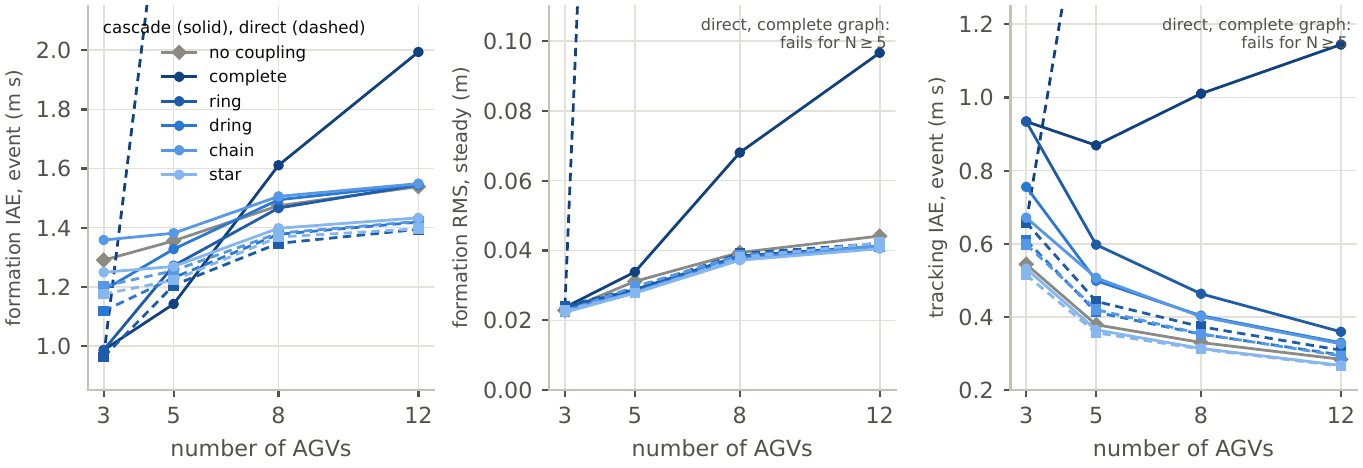
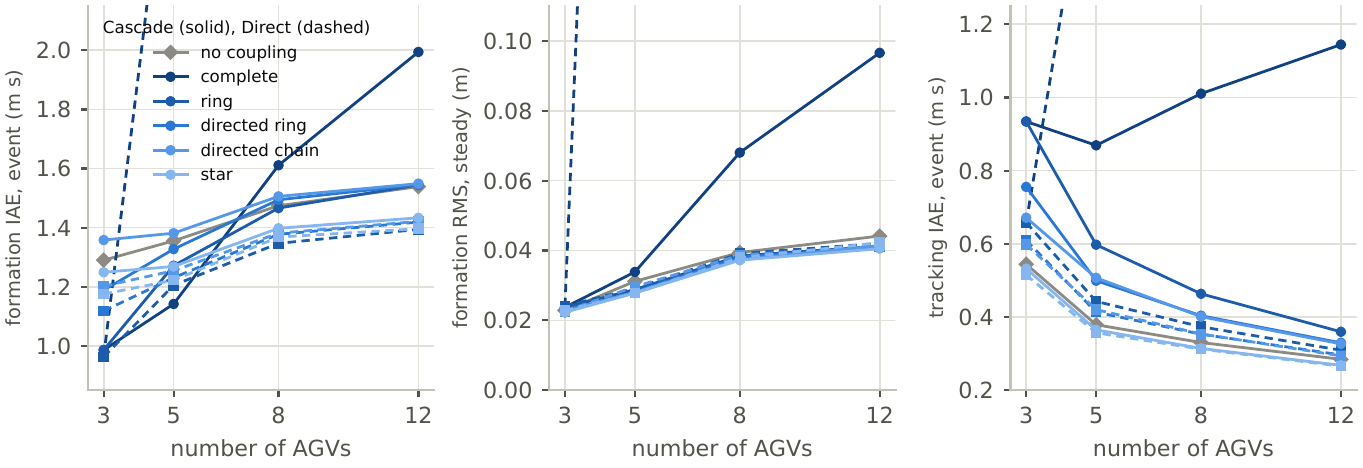
AGV project page and homepage entry synced with the revised report
New title, sigma-leak filter instead of 'CEP-structure transfer', lambda_2(L)
notation, corrected claims (21-32 % after traction losses, 0.63 % step-size
bound, failures instead of 'unstable', direct-coupling failures at N = 5),
independent review instead of 'audit', figures regenerated.

diff --git a/agv-formation/index.html b/agv-formation/index.html
@@ -3,11 +3,11 @@
 <head>
 <meta charset="utf-8">
 <meta name="viewport" content="width=device-width, initial-scale=1, viewport-fit=cover">
-<title>Delay-Tolerant Formation Tracking for Multi-AGV Systems</title>
-<meta name="description" content="A cascade coupling law for AGV formations whose stability does not depend on the communication delay: audited Lyapunov proofs and 4,894 runs on a high-fidelity AGV simulator, with an interactive replay.">
+<title>Delay-Tolerant Formation Tracking for Multi-AGV Systems via Reference-Shift Coupling</title>
+<meta name="description" content="A cascade coupling law for AGV formations whose stability does not depend on the communication delay: Lyapunov proofs, a numerical verification and 4,894 runs on a high-fidelity AGV simulator, with an interactive replay.">
 <meta property="og:type" content="website">
-<meta property="og:title" content="Delay-Tolerant Formation Tracking for Multi-AGV Systems">
-<meta property="og:description" content="Reference-shift coupling for AGV formations under arbitrary bounded communication delays: audited stability proofs and a high-fidelity simulation study.">
+<meta property="og:title" content="Delay-Tolerant Formation Tracking for Multi-AGV Systems via Reference-Shift Coupling">
+<meta property="og:description" content="Reference-shift coupling for AGV formations under arbitrary bounded communication delays: stability proofs and a high-fidelity simulation study.">
 <meta property="og:image" content="https://bi-yunfei.github.io/agv-formation/media/og.jpg">
 <link rel="preconnect" href="https://fonts.googleapis.com">
 <link rel="preconnect" href="https://fonts.gstatic.com" crossorigin>
@@ -278,8 +278,8 @@ footer a { color: var(--ink-2); }
 <main class="wrap">
   <div class="hero">
     <p class="kicker"><span data-l="en">Technical report · 2026</span><span data-l="zh">技术报告 · 2026</span></p>
-    <h1><span data-l="en">Delay-Tolerant Formation Tracking for Multi-AGV Systems</span><span data-l="zh">通信时延下的多 AGV 编队跟踪控制</span></h1>
-    <p class="subtitle"><span data-l="en">A cascade coupling law whose stability does not depend on the communication delay, audited Lyapunov proofs, and 4,894 runs on a high-fidelity AGV simulator.</span><span data-l="zh">稳定性与通信时延无关的级联耦合控制律、经过审计的李雅普诺夫稳定性证明，以及在高保真 AGV 仿真器上的 4894 次仿真验证。</span></p>
+    <h1><span data-l="en">Delay-Tolerant Formation Tracking for Multi-AGV Systems via Reference-Shift Coupling</span><span data-l="zh">通信时延下的多 AGV 编队跟踪控制：参考轨迹平移耦合方法</span></h1>
+    <p class="subtitle"><span data-l="en">A cascade coupling law whose stability does not depend on the communication delay, Lyapunov stability proofs that were checked numerically, and 4,894 runs on a high-fidelity AGV simulator.</span><span data-l="zh">稳定性与通信时延无关的级联耦合控制律、经过数值核验的李雅普诺夫稳定性证明，以及在高保真 AGV 仿真器上的 4894 次仿真验证。</span></p>
     <p class="author"><a href="../"><span data-l="en">Yunfei Bi</span><span data-l="zh">毕云飞</span></a></p>
     <div class="buttons">
       <a class="btn" href="#replay"><svg viewBox="0 0 16 16" aria-hidden="true"><path d="M5 3.5v9l7-4.5z"/></svg><span data-l="en">Interactive replay</span><span data-l="zh">交互式动画</span></a>
@@ -320,10 +320,10 @@ footer a { color: var(--ink-2); }
   <section id="numbers" aria-labelledby="h-numbers">
     <h2 class="sec-title" id="h-numbers"><span data-l="en">Results at a glance</span><span data-l="zh">主要结果</span></h2>
     <div class="cards">
-      <div class="card"><p class="num">4,894</p><p><span data-l="en">paired runs on the high-fidelity model, with baselines tuned on separate seeds.</span><span data-l="zh">次高保真模型上的配对仿真，对照控制器在独立的随机种子上调参。</span></p></div>
-      <div class="card"><p class="num blue">0</p><p><span data-l="en">failures of the cascade, for latencies up to 4 s, 90 % packet loss, outages, 12 vehicles and 8× the tuned gain.</span><span data-l="zh">次级联控制器失稳：时延最长 4 s、丢包率 90 %、通信中断、12 辆车、8 倍调参增益下均保持稳定。</span></p></div>
+      <div class="card"><p class="num">4,894</p><p><span data-l="en">simulation runs on the high-fidelity model, including paired comparisons with baselines tuned on separate seeds.</span><span data-l="zh">次高保真模型上的仿真，包括与对照控制器的配对比较，对照控制器在独立的随机种子上调参。</span></p></div>
+      <div class="card"><p class="num blue">0</p><p><span data-l="en">failures of the cascade, for latencies up to 4 s, 90 % packet loss, outages, 12 vehicles and 8× the tuned gain.</span><span data-l="zh">次级联控制器失败：时延最长 4 s、丢包率 90 %、通信中断、12 辆车、8 倍调参增益下均未失败。</span></p></div>
       <div class="card"><p class="num blue">−47 %</p><p><span data-l="en">formation error (IAE) after a 3-s safety stop of one AGV, cascade vs. no coupling (R6).</span><span data-l="zh">单车急停 3 s 后的编队误差积分（IAE），级联耦合相对无耦合（R6）。</span></p></div>
-      <div class="card"><p class="num blue">−22…32 %</p><p><span data-l="en">formation error (IAE) after a traction loss, coupled laws vs. no coupling (R2, two routes).</span><span data-l="zh">打滑后的编队误差积分，耦合控制律相对无耦合（R2，两条路线）。</span></p></div>
+      <div class="card"><p class="num blue">−21…32 %</p><p><span data-l="en">formation error (IAE) after a traction loss, coupled laws vs. no coupling (R2 and R6).</span><span data-l="zh">打滑后的编队误差积分，耦合控制律相对无耦合（R2 与 R6）。</span></p></div>
     </div>
     <p class="prose"><span data-l="en">The coupling is not free: while the others wait for a disturbed vehicle they fall behind their own references, so the tracking error grows (by 24 % in the median for the cascade). In nominal operation the formation accuracy, about 3 cm RMS, is set by the localisation error, which no coupling law can observe.</span><span data-l="zh">耦合并非没有代价：其他车辆等待受扰车辆时会落后于各自的参考轨迹，跟踪误差因此增大（级联耦合的中位数增加 24 %）。正常运行时编队精度约为 3 cm RMS，由定位误差决定，任何耦合控制律都无法观测并消除它。</span></p>
   </section>
@@ -369,12 +369,12 @@ footer a { color: var(--ink-2); }
     <h2 class="sec-title" id="h-theory"><span data-l="en">What is proven</span><span data-l="zh">理论结果</span></h2>
     <p class="sec-sub"><span data-l="en">For kinematic unicycles, every bounded delay (heterogeneous, time-varying, discontinuous) and every directed, possibly switching communication graph.</span><span data-l="zh">适用于运动学独轮车模型、任意有界时延（各链路不同、时变、可跳变）以及任意有向、可切换的通信拓扑。</span></p>
     <div class="thm">
-      <div><p class="tl"><span data-l="en">Theorem · convergence</span><span data-l="zh">定理 · 收敛性</span></p><h3><span data-l="en">Bounded and convergent for any bounded delay</span><span data-l="zh">任意有界时延下误差有界且收敛</span></h3><p><span data-l="en">Tracking and formation errors stay bounded and converge to zero. Boundedness needs no assumption on the delays at all (Razumikhin and max-norm arguments).</span><span data-l="zh">跟踪误差与编队误差有界并收敛到零；有界性对时延没有任何假设（Razumikhin 方法与最大范数论证）。</span></p></div>
+      <div><p class="tl"><span data-l="en">Theorem · convergence</span><span data-l="zh">定理 · 收敛性</span></p><h3><span data-l="en">Bounded and convergent for any bounded delay</span><span data-l="zh">任意有界时延下误差有界且收敛</span></h3><p><span data-l="en">Tracking and formation errors stay bounded and converge to zero. Boundedness holds without any bound on the delays (Razumikhin and max-norm arguments).</span><span data-l="zh">跟踪误差与编队误差有界并收敛到零；有界性对时延的大小没有任何限制（Razumikhin 方法与最大范数论证）。</span></p></div>
       <div><p class="tl"><span data-l="en">Proposition · strict Lyapunov function</span><span data-l="zh">命题 · 严格李雅普诺夫函数</span></p><h3><span data-l="en">Explicit constants for the tracking law</span><span data-l="zh">跟踪律的显式常数</span></h3><p><span data-l="en">A strict Lyapunov function for the gain-scheduled law, written with a free length scale so that all constants are dimensionally consistent.</span><span data-l="zh">为增益调度跟踪律构造严格李雅普诺夫函数，并引入自由长度尺度，使所有常数量纲一致。</span></p></div>
       <div><p class="tl"><span data-l="en">Lemma + theorems · rates</span><span data-l="zh">引理与定理 · 收敛速率</span></p><h3><span data-l="en">Exponential convergence, delay-independent gains</span><span data-l="zh">指数收敛，增益与时延无关</span></h3><p><span data-l="en">A Halanay-type estimate for the delayed filter network gives exponential convergence and a local input-to-state estimate whose gains do not depend on the delay.</span><span data-l="zh">对带时延的滤波器网络给出 Halanay 型估计，由此得到指数收敛，以及增益与时延无关的局部输入-状态稳定（ISS）估计。</span></p></div>
-      <div class="new"><p class="tl"><span data-l="en">Proposition · new</span><span data-l="zh">命题 · 新结果</span></p><h3><span data-l="en">What the coupling buys</span><span data-l="zh">耦合到底带来多少收益</span></h3><p><span data-l="en">Persistent local errors reach the tracking errors through</span><span data-l="zh">持续存在的本地误差按下式传递到跟踪误差：</span></p><div class="tex" data-tex="e^{\infty} = \lambda\,(\lambda I + \Lambda L)^{-1}\,\varepsilon^{\infty}"></div><p><span data-l="en">Their mean is untouched; the formation error shrinks by the factor λ/(λ + Λℓ₂), for any delay (ℓ₂: algebraic connectivity of the graph).</span><span data-l="zh">误差的均值不变，编队误差按因子 λ/(λ + Λℓ₂) 缩小，且对任意时延成立（ℓ₂ 为通信图的代数连通度）。</span></p></div>
+      <div class="new"><p class="tl"><span data-l="en">Proposition · new</span><span data-l="zh">命题 · 新结果</span></p><h3><span data-l="en">Benefit of the coupling</span><span data-l="zh">耦合带来的收益</span></h3><p><span data-l="en">Persistent local errors reach the tracking errors through</span><span data-l="zh">持续存在的本地误差按下式传递到跟踪误差：</span></p><div class="tex" data-tex="e^{\infty} = \lambda\,(\lambda I + \Lambda L)^{-1}\,\varepsilon^{\infty}"></div><p><span data-l="en">On undirected graphs their mean is untouched, and the formation error shrinks by at least the factor λ/(λ + Λλ₂(L)), for any delay (λ₂(L): algebraic connectivity of the graph).</span><span data-l="zh">在无向图上，误差的均值不变，编队误差至少按因子 λ/(λ + Λλ₂(L)) 缩小，且对任意时延成立（λ₂(L) 为通信图的代数连通度）。</span></p></div>
     </div>
-    <div class="audit"><svg viewBox="0 0 24 24" aria-hidden="true"><path d="M12 2.8 4.5 5.6v6.1c0 4.4 3.1 8.1 7.5 9.5 4.4-1.4 7.5-5.1 7.5-9.5V5.6z M8.6 12.2l2.4 2.4 4.6-4.8"/></svg><p><span data-l="en"><b>Audited and checked numerically.</b> The proofs were reviewed as a referee would: no mathematical error was found; gaps (well-posedness, dimensional consistency, an over-claimed uniform asymptotic stability, constants) were fixed. Every statement was then checked with an event-driven, error-controlled simulation: 2×10⁷ random evaluations of the Lyapunov inequalities, 1,000 exactly integrated delayed networks and 280 closed-loop runs with delays up to 4.2 s and 13 % packet loss produced no violation.</span><span data-l="zh"><b>经过审计和数值核验。</b>以审稿人的标准逐条审查了证明：未发现数学错误，并补全了若干缺口（解的适定性、量纲一致性、过强的一致渐近稳定结论、常数）。随后用事件驱动、误差可控的仿真逐条核验：2×10⁷ 次李雅普诺夫不等式随机检验、1000 个精确积分的时延网络、280 次时延最长 4.2 s 且丢包 13 % 的闭环仿真，均未出现违反。</span></p></div>
+    <div class="audit"><svg viewBox="0 0 24 24" aria-hidden="true"><path d="M12 2.8 4.5 5.6v6.1c0 4.4 3.1 8.1 7.5 9.5 4.4-1.4 7.5-5.1 7.5-9.5V5.6z M8.6 12.2l2.4 2.4 4.6-4.8"/></svg><p><span data-l="en"><b>Independently reviewed and checked numerically.</b> Two referee-style passes over the proofs found no error in the theorems; missing hypotheses, one incorrect remark and notation issues were fixed, and the proof of the direct-coupling delay bound was added. Every number in the report was re-checked against the stored results, and every reference against publisher records. Every statement was also checked with an event-driven, error-controlled simulation: 2×10⁷ random evaluations of the Lyapunov inequalities, 1,000 exactly integrated delayed networks and 280 closed-loop runs with delays up to 4.2 s and 13 % packet loss produced no violation.</span><span data-l="zh"><b>经过独立审查和数值核验。</b>以审稿人的标准对证明做了两轮独立审查：定理本身未发现错误；补全了缺失的前提条件，修正了一处错误的注释和符号问题，并补充了直接耦合时延界的证明。报告中的每个数字都与保存的仿真结果重新核对过，每条参考文献都与出版方记录核实过。此外还用事件驱动、误差可控的仿真逐条核验：2×10⁷ 次李雅普诺夫不等式随机检验、1000 个精确积分的时延网络、280 次时延最长 4.2 s 且丢包 13 % 的闭环仿真，均未出现违反。</span></p></div>
   </section>
 
   <!-- ===================================================== study -->
@@ -388,7 +388,7 @@ footer a { color: var(--ink-2); }
       <div class="layer"><b><span data-l="en">Localisation</span><span data-l="zh">定位</span></b><ul><li><span data-l="en">LiDAR fixes at 20 Hz, 50 ms latency</span><span data-l="zh">激光雷达定位 20 Hz，延迟 50 ms</span></li><li><span data-l="en">noise 10 mm, slowly drifting bias</span><span data-l="zh">噪声 10 mm，缓慢漂移的偏差</span></li><li><span data-l="en">fused with wheel odometry</span><span data-l="zh">与轮式里程计融合</span></li></ul></div>
       <div class="layer"><b><span data-l="en">Network</span><span data-l="zh">网络</span></b><ul><li><span data-l="en">20 Hz broadcasts, 30 ± 15 ms + spikes</span><span data-l="zh">20 Hz 广播，30 ± 15 ms 时延并有尖峰</span></li><li><span data-l="en">burst loss (Gilbert–Elliott), outages</span><span data-l="zh">突发丢包（Gilbert–Elliott）、通信中断</span></li><li><span data-l="en">link switching</span><span data-l="zh">链路切换</span></li></ul></div>
     </div>
-    <p class="fair"><span data-l="en"><b>Fair comparison.</b> Four laws share the same tracking law: <b>no coupling</b>; the <b>cascade</b>; a <b>CEP-structure transfer</b> (the filter of Peng et al. transferred literally); and <b>direct coupling</b>, where delayed neighbour errors enter the tracking law. Each coupling gain was tuned on ten seeds never used for testing. Every comparison is paired (a seed fixes initial errors, vehicle parameters, network, noise and slip for all controllers), reported as mean or median with 95 % bootstrap intervals, and tested with Wilcoxon signed-rank tests with Holm correction.</span><span data-l="zh"><b>公平对比。</b>四种控制律使用同一个跟踪律：<b>无耦合</b>；<b>级联耦合</b>（本文）；<b>CEP 结构移植</b>（将 Peng 等人的滤波器原样移植）；以及<b>直接耦合</b>（把带时延的邻居误差直接加入跟踪律）。每个耦合增益都在十个从不用于测试的种子上调参。所有比较都是配对的（同一种子下所有控制器的初始误差、车辆参数、网络、噪声和打滑完全相同），结果给出均值或中位数及 95 % bootstrap 置信区间，并用带 Holm 校正的 Wilcoxon 符号秩检验做显著性检验。</span></p>
+    <p class="fair"><span data-l="en"><b>Fair comparison.</b> Four laws share the same tracking law: <b>no coupling</b>; the <b>cascade</b>; the <b>σ-leak filter</b> (the reference-filter structure of Peng et al. transferred literally to unicycles; not their controller); and <b>direct coupling</b>, where delayed neighbour errors enter the tracking law. Each coupling gain was tuned on ten seeds never used for testing. Every comparison is paired (a seed fixes initial errors, vehicle parameters, network, noise and slip for all controllers), reported as mean or median with 95 % bootstrap intervals, and tested with Wilcoxon signed-rank tests with Holm correction.</span><span data-l="zh"><b>公平对比。</b>四种控制律使用同一个跟踪律：<b>无耦合</b>；<b>级联耦合</b>（本文）；<b>σ-leak 滤波器</b>（把 Peng 等人参考滤波器的结构原样移植到独轮车模型，并非他们的控制器）；以及<b>直接耦合</b>（把带时延的邻居误差直接加入跟踪律）。每个耦合增益都在十个从不用于测试的种子上调参。所有比较都是配对的（同一种子下所有控制器的初始误差、车辆参数、网络、噪声和打滑完全相同），结果给出均值或中位数及 95 % bootstrap 置信区间，并用带 Holm 校正的 Wilcoxon 符号秩检验做显著性检验。</span></p>
     <div class="tbl-wrap">
     <table class="exps">
       <thead><tr><th><span data-l="en">Exp.</span><span data-l="zh">实验</span></th><th><span data-l="en">Question</span><span data-l="zh">内容</span></th></tr></thead>
@@ -414,7 +414,7 @@ footer a { color: var(--ink-2); }
       </div>
       <div class="smalls" id="events"></div>
       <div class="legend" id="events-legend"></div>
-      <p class="caption"><span data-l="en">Warehouse route, 20 seeds, mean with 95 % bootstrap interval, over 15 s from the onset. Coupling lowers the formation error after traction losses and safety stops; the price is a larger tracking error, because the other vehicles wait. A relocalisation jump is a localisation artefact that no coupling law can see. The literal transfer of the reference study's filter (CEP-structure) is worse than no coupling after traction losses on this route and in some runs does not settle below 10 cm within the window.</span><span data-l="zh">仓库路线，20 个种子，均值及 95 % bootstrap 置信区间，统计窗口为扰动发生后 15 s。耦合降低了打滑和急停后的编队误差，代价是跟踪误差变大，因为其他车辆在等待。重定位跳变是定位层面的误差，任何耦合控制律都无法察觉。原样移植的参考文献滤波器（CEP 结构）在这条路线上打滑后反而比无耦合更差，且部分仿真在统计窗口内无法回落到 10 cm 以下。</span></p>
+      <p class="caption"><span data-l="en">Warehouse route, 20 seeds, mean with 95 % bootstrap interval, over 15 s from the onset. Coupling lowers the formation error after traction losses and safety stops; the price is a larger tracking error, because the other vehicles wait. A relocalisation jump is a localisation artefact that no coupling law can see. The σ-leak filter is worse than no coupling after traction losses on this route, and in some runs it does not recover before the end of the run.</span><span data-l="zh">仓库路线，20 个种子，均值及 95 % bootstrap 置信区间，统计窗口为扰动发生后 15 s。耦合降低了打滑和急停后的编队误差，代价是跟踪误差变大，因为其他车辆在等待。重定位跳变是定位层面的误差，任何耦合控制律都无法察觉。σ-leak 滤波器在这条路线上打滑后反而比无耦合更差，部分仿真到结束时仍未恢复。</span></p>
       <details class="table"><summary><span data-l="en">Show as table</span><span data-l="zh">以表格显示</span></summary><div class="tbl-wrap" id="events-table"></div></details>
     </div>
 
@@ -434,9 +434,9 @@ footer a { color: var(--ink-2); }
         <figure><a class="img" href="figures/r3_network.png" target="_blank" rel="noopener"><img src="figures/r3_network.png" alt="Formation IAE under six network sweeps" loading="lazy" width="1366" height="828"></a><figcaption><b>R3.</b> <span data-l="en">Network sweeps: latency, loss, outages without and with watchdog, broadcast rate and the sinusoidal delays of the reference study.</span><span data-l="zh">网络扫描：时延、丢包、通信中断（有无看门狗）、广播频率，以及参考文献中的正弦时延。</span></figcaption></figure>
         <figure><a class="img" href="figures/r4_simreal_steady.png" target="_blank" rel="noopener"><img src="figures/r4_simreal_steady.png" alt="Steady formation RMS against eleven sim-to-real factors" loading="lazy" width="1372" height="1087"></a><figcaption><b>R4.</b> <span data-l="en">Sim-to-real factors one at a time: steady formation RMS. Localisation bias and clock offset dominate; the controllers cannot remove them.</span><span data-l="zh">逐一改变 sim-to-real 因素时的稳态编队 RMS。定位偏差和时钟偏差占主导，控制律无法消除。</span></figcaption></figure>
         <figure><a class="img" href="figures/r5_domain_rand.png" target="_blank" rel="noopener"><img src="figures/r5_domain_rand.png" alt="Distributions of IAE ratios over 150 randomised draws" loading="lazy" width="1366" height="439"></a><figcaption><b>R5.</b> <span data-l="en">Domain randomisation over 150 draws: paired formation and tracking IAE ratios to no coupling, and peak formation error.</span><span data-l="zh">150 组域随机化：编队与跟踪误差积分相对无耦合的配对比值分布，以及编队误差峰值。</span></figcaption></figure>
-        <figure><a class="img" href="figures/r7_scaling.png" target="_blank" rel="noopener"><img src="figures/r7_scaling.png" alt="Formation IAE for 3 to 12 vehicles on five graphs" loading="lazy" width="1363" height="468"></a><figcaption><b>R7.</b> <span data-l="en">3 to 12 vehicles on five graphs (unit weights). The direct coupling fails on the complete graph from 8 vehicles on; degree-normalised weights fix this (R7b).</span><span data-l="zh">3 到 12 辆车、五种拓扑（单位权重）。完全图下直接耦合从 8 辆车起失稳；按度归一化权重可解决（R7b）。</span></figcaption></figure>
-        <figure><a class="img" href="figures/r8_sensitivity.png" target="_blank" rel="noopener"><img src="figures/r8_sensitivity.png" alt="Sensitivity of the cascade to its parameters" loading="lazy" width="1364" height="363"></a><figcaption><b>R8.</b> <span data-l="en">Cascade parameters varied one at a time: performance degrades smoothly; a larger leak λ lowers the tracking cost, a cap ē of 0.1–0.2 m works better than the default.</span><span data-l="zh">逐一改变级联参数：性能平滑变化；增大泄漏项 λ 可降低跟踪代价，ē 取 0.1–0.2 m 优于默认值。</span></figcaption></figure>
-        <figure><a class="img" href="figures/form.png" target="_blank" rel="noopener"><img src="figures/form.png" alt="Measured formation-error ratio against the predicted factor" loading="lazy" width="1365" height="472"></a><figcaption><b><span data-l="en">Theory check.</span><span data-l="zh">理论核验。</span></b> <span data-l="en">Measured ratio of the steady formation error with and without coupling against the predicted factor λ/(λ + Λℓ₂): equality on the complete graph.</span><span data-l="zh">有无耦合时稳态编队误差之比的实测值与预测因子 λ/(λ + Λℓ₂) 的对比：完全图下两者相等。</span></figcaption></figure>
+        <figure><a class="img" href="figures/r7_scaling.png" target="_blank" rel="noopener"><img src="figures/r7_scaling.png" alt="Formation IAE for 3 to 12 vehicles on five graphs" loading="lazy" width="1363" height="468"></a><figcaption><b>R7.</b> <span data-l="en">3 to 12 vehicles on five graphs (unit weights). On the complete graph the direct coupling fails in 1 of 6 runs for N = 5 and in all runs from N = 8; degree-normalised weights fix this (R7b).</span><span data-l="zh">3 到 12 辆车、五种拓扑（单位权重）。完全图下直接耦合在 N = 5 时 6 次中失败 1 次，N ≥ 8 时全部失败；按度归一化权重可解决（R7b）。</span></figcaption></figure>
+        <figure><a class="img" href="figures/r8_sensitivity.png" target="_blank" rel="noopener"><img src="figures/r8_sensitivity.png" alt="Sensitivity of the cascade to its parameters" loading="lazy" width="1364" height="357"></a><figcaption><b>R8.</b> <span data-l="en">Cascade parameters varied one at a time: performance changes gradually; a larger leak λ lowers the tracking cost, a cap ē of 0.1–0.2 m works better than the default.</span><span data-l="zh">逐一改变级联参数：性能变化平缓；增大泄漏项 λ 可降低跟踪代价，ē 取 0.1–0.2 m 优于默认值。</span></figcaption></figure>
+        <figure><a class="img" href="figures/form.png" target="_blank" rel="noopener"><img src="figures/form.png" alt="Measured formation-error ratio against the predicted factor" loading="lazy" width="1365" height="472"></a><figcaption><b><span data-l="en">Theory check.</span><span data-l="zh">理论核验。</span></b> <span data-l="en">Measured ratio of the steady formation error with and without coupling against the predicted factor λ/(λ + Λλ₂(L)): equality on the complete graph.</span><span data-l="zh">有无耦合时稳态编队误差之比的实测值与预测因子 λ/(λ + Λλ₂(L)) 的对比：完全图下两者相等。</span></figcaption></figure>
       </div>
     </div>
   </section>
@@ -445,18 +445,18 @@ footer a { color: var(--ink-2); }
   <section id="lessons" aria-labelledby="h-lessons">
     <h2 class="sec-title" id="h-lessons"><span data-l="en">Takeaways</span><span data-l="zh">结论与部署建议</span></h2>
     <ul class="learn">
-      <li><svg viewBox="0 0 24 24" aria-hidden="true"><path d="M12 2.8 4.5 5.6v6.1c0 4.4 3.1 8.1 7.5 9.5 4.4-1.4 7.5-5.1 7.5-9.5V5.6z"/></svg><p><span data-l="en"><b>Stability.</b> The cascade did not fail in any run. The direct coupling failed whenever its effective gain pushed the drives into saturation, and at high localisation noise; the literal transfer of the reference filter failed in 13 % of the randomised draws.</span><span data-l="zh"><b>稳定性。</b>级联耦合在所有仿真中都没有失稳。直接耦合在有效增益把驱动推入饱和时、以及定位噪声较大时会失稳；原样移植的参考滤波器在 13 % 的域随机化样本中失稳。</span></p></li>
-      <li><svg viewBox="0 0 24 24" aria-hidden="true"><path d="M4 18 9.5 12l4 3.5L20 7 M15 7h5v5"/></svg><p><span data-l="en"><b>Benefit.</b> Coupling improves the formation against disturbances the vehicles can observe: traction loss, safety stops, calibration errors, slip and drive saturation (21–38 % lower formation RMS). It cannot remove localisation bias or clock offsets.</span><span data-l="zh"><b>收益。</b>对于车辆能够观测到的扰动，耦合能改善编队：打滑、急停、标定误差、打滑噪声和驱动饱和（编队 RMS 降低 21–38 %）；但它无法消除定位偏差和时钟偏差。</span></p></li>
-      <li><svg viewBox="0 0 24 24" aria-hidden="true"><path d="M7 4v16M17 4v16M7 9h10M7 15h10"/></svg><p><span data-l="en"><b>Cascade or direct coupling.</b> With delays of tens of milliseconds the direct coupling matches the cascade at lower tracking cost and is slightly better after a traction loss. The cascade is better for safety stops, drive saturation, slip and noisy localisation, has the smaller tail of bad cases, and is the only law whose performance degrades smoothly with the gain.</span><span data-l="zh"><b>级联还是直接耦合。</b>时延为几十毫秒时，直接耦合与级联效果相当且跟踪代价更低，打滑后略优；级联在急停、驱动饱和、打滑和定位噪声较大时更好，坏情况的尾部更小，并且是唯一一个性能随增益平滑变化的控制律。</span></p></li>
-      <li><svg viewBox="0 0 24 24" aria-hidden="true"><circle cx="12" cy="12" r="8.5"/><path d="M12 7v5l3.5 2"/></svg><p><span data-l="en"><b>Delays.</b> Both coupled laws stay stable for every delay tested, but the benefit vanishes when the data are older than the disturbance (beyond 1–2 s latency for a 2-s traction loss).</span><span data-l="zh"><b>时延。</b>两种耦合控制律在所有测试的时延下都保持稳定，但当数据比扰动本身还旧时（对 2 s 打滑而言，时延超过 1–2 s），收益就会消失。</span></p></li>
-      <li><svg viewBox="0 0 24 24" aria-hidden="true"><path d="M4 7h16M4 12h10M4 17h7 M16.5 15.5l2 2 3.5-4"/></svg><p><span data-l="en"><b>For deployment.</b> Localisation bias of about 1 cm and clock synchronisation to a few milliseconds are needed for centimetre-level formations; coupling weights should be normalised by the node degree; a watchdog that drops silent neighbours costs nothing and is advisable.</span><span data-l="zh"><b>部署建议。</b>要实现厘米级编队，需要约 1 cm 以内的定位偏差和几毫秒以内的时钟同步；耦合权重应按节点度归一化；建议加入看门狗，剔除长时间无数据的邻居，这几乎没有代价。</span></p></li>
+      <li><svg viewBox="0 0 24 24" aria-hidden="true"><path d="M12 2.8 4.5 5.6v6.1c0 4.4 3.1 8.1 7.5 9.5 4.4-1.4 7.5-5.1 7.5-9.5V5.6z"/></svg><p><span data-l="en"><b>Failures.</b> The cascade did not fail in any run. The direct coupling failed when large effective gains pushed the drives into saturation and at high localisation noise; the σ-leak filter failed in 13 % of the randomised draws.</span><span data-l="zh"><b>失败情况。</b>级联耦合在所有仿真中都没有失败。直接耦合在较大的有效增益把驱动推入饱和时、以及定位噪声较大时会失败；σ-leak 滤波器在 13 % 的域随机化样本中失败。</span></p></li>
+      <li><svg viewBox="0 0 24 24" aria-hidden="true"><path d="M4 18 9.5 12l4 3.5L20 7 M15 7h5v5"/></svg><p><span data-l="en"><b>Benefit.</b> Coupling reduces the formation error caused by disturbances the vehicles can observe: traction loss (21–32 % lower formation IAE), safety stops (47 % for the cascade), and calibration errors, slip and drive saturation (21–38 % lower formation RMS). It cannot remove localisation bias or clock offsets.</span><span data-l="zh"><b>收益。</b>对于车辆能够观测到的扰动，耦合能减小编队误差：打滑（编队误差积分降低 21–32 %）、急停（级联降低 47 %），以及标定误差、打滑噪声和驱动饱和（编队 RMS 降低 21–38 %）；但它无法消除定位偏差和时钟偏差。</span></p></li>
+      <li><svg viewBox="0 0 24 24" aria-hidden="true"><path d="M7 4v16M17 4v16M7 9h10M7 15h10"/></svg><p><span data-l="en"><b>Cascade or direct coupling.</b> With delays of tens of milliseconds the direct coupling improves the formation after a traction loss about as much as the cascade, at a lower tracking cost. The cascade is better for safety stops, drive saturation, slip and noisy localisation, has the smaller tail of bad cases, and is the only law that did not fail for any gain tested.</span><span data-l="zh"><b>级联还是直接耦合。</b>时延为几十毫秒时，直接耦合在打滑后的编队改善与级联相当，且跟踪代价更低；级联在急停、驱动饱和、打滑和定位噪声较大时更好，坏情况的尾部更小，并且是唯一一个在所有测试增益下都没有失败的控制律。</span></p></li>
+      <li><svg viewBox="0 0 24 24" aria-hidden="true"><circle cx="12" cy="12" r="8.5"/><path d="M12 7v5l3.5 2"/></svg><p><span data-l="en"><b>Delays.</b> Neither coupled law failed for any delay tested, but the benefit vanishes when the data are older than the disturbance (beyond 1–2 s latency for a 2-s traction loss).</span><span data-l="zh"><b>时延。</b>两种耦合控制律在所有测试的时延下都没有失败，但当数据比扰动本身还旧时（对 2 s 打滑而言，时延超过 1–2 s），收益就会消失。</span></p></li>
+      <li><svg viewBox="0 0 24 24" aria-hidden="true"><path d="M4 7h16M4 12h10M4 17h7 M16.5 15.5l2 2 3.5-4"/></svg><p><span data-l="en"><b>For deployment.</b> Centimetre-level formations need a localisation bias of at most about 1 cm and clocks synchronised to a few milliseconds; coupling weights should be normalised by the node degree; a watchdog that drops silent neighbours is advisable, so that stale samples cannot act indefinitely.</span><span data-l="zh"><b>部署建议。</b>要实现厘米级编队，需要约 1 cm 以内的定位偏差和几毫秒以内的时钟同步；耦合权重应按节点度归一化；建议加入看门狗，剔除长时间无数据的邻居，避免过期数据一直起作用。</span></p></li>
     </ul>
     <div class="limits">
       <h3><span data-l="en">Limitations</span><span data-l="zh">局限性</span></h3>
       <ul>
         <li><span data-l="en">This study is simulation only. The vehicle parameters are generic values for an industrial differential-drive AGV, not those of a specific vehicle, and the tracking gains ψ and b are assumed.</span><span data-l="zh">本研究仅为仿真。车辆参数为工业差速 AGV 的通用取值，而非某款具体车辆，跟踪增益 ψ 和 b 为假定值。</span></li>
         <li><span data-l="en">The theorems are stated for kinematic unicycles; on the dynamic model their conclusions are supported by simulation, not by proof.</span><span data-l="zh">定理针对运动学独轮车模型；在动力学模型上，结论由仿真而非证明支撑。</span></li>
-        <li><span data-l="en">The novelty is incremental: the architecture and the analysis tools are known. A few closely related papers could not be read in full and should be checked before any priority claim.</span><span data-l="zh">创新性是增量式的：整体架构和分析工具都是已有的。少数密切相关的文献未能读到全文，在主张优先权之前需要核实。</span></li>
+        <li><span data-l="en">The novelty is incremental: the architecture and the analysis tools are known; the contribution lies in their combination for kinematic unicycles with individual references, the explicit constants and the formation result.</span><span data-l="zh">创新性是增量式的：整体架构和分析工具都是已有的；贡献在于针对各自跟踪参考轨迹的运动学独轮车给出这一组合、显式常数，以及编队收益的结论。</span></li>
       </ul>
     </div>
   </section>
@@ -466,7 +466,7 @@ footer a { color: var(--ink-2); }
     <h2 class="sec-title" id="h-repro"><span data-l="en">Reproducibility</span><span data-l="zh">可复现性</span></h2>
     <div class="repro">
       <div><b><span data-l="en">Deterministic jobs</span><span data-l="zh">确定性任务</span></b><p><span data-l="en">Every run is a function of a JSON job description. Six independent random streams per seed, and common random numbers: the number of draws never depends on the controller or on parameter values.</span><span data-l="zh">每次仿真都由一个 JSON 任务描述唯一确定。每个种子派生六路独立随机流，并使用公共随机数：随机数的抽取次数与控制器和参数取值无关。</span></p></div>
-      <div><b><span data-l="en">Bit-identical re-runs</span><span data-l="zh">逐位一致的重复运行</span></b><p><span data-l="en">Job lists, metrics, the software environment and a hash of the simulator are stored with the results; re-running stored jobs gives bit-identical numbers. Reducing the integration step tenfold changes no metric by more than 0.36 %.</span><span data-l="zh">任务列表、指标、软件环境和仿真器源码哈希与结果一同保存；重新运行已存任务得到逐位一致的结果。积分步长缩小为 1/10 时，各指标变化不超过 0.36 %。</span></p></div>
+      <div><b><span data-l="en">Bit-identical re-runs</span><span data-l="zh">逐位一致的重复运行</span></b><p><span data-l="en">Job lists, metrics, the software environment and a hash of the simulator are stored with the results; re-running stored jobs gives bit-identical numbers. Reducing the integration step tenfold changes no reported metric by more than 0.63 %.</span><span data-l="zh">任务列表、指标、软件环境和仿真器源码哈希与结果一同保存；重新运行已存任务得到逐位一致的结果。积分步长缩小为 1/10 时，报告中的各项指标变化不超过 0.63 %。</span></p></div>
       <div><b><span data-l="en">One command</span><span data-l="zh">一条命令</span></b><p><span data-l="en"><code>run_all.py</code> runs the unit tests and regenerates every number, figure and table (4,894 runs, about 1.5 h on 18 cores). Python 3.10, NumPy 2.2.6, SciPy 1.15.3, Matplotlib 3.10.7.</span><span data-l="zh"><code>run_all.py</code> 依次运行单元测试并重新生成所有数据、图和表（4894 次仿真，18 核约 1.5 小时）。环境：Python 3.10、NumPy 2.2.6、SciPy 1.15.3、Matplotlib 3.10.7。</span></p></div>
     </div>
     <p class="prose"><span data-l="en">The animated runs above are ordinary jobs of the study (experiments R6, R2 and R7b), re-run with full trajectory recording; their metrics match the stored results.</span><span data-l="zh">上方动画中的仿真就是研究中的原始任务（实验 R6、R2、R7b），只是重新运行并记录了完整轨迹；其指标与已保存的结果一致。</span></p>
@@ -492,7 +492,7 @@ footer a { color: var(--ink-2); }
   function L() { return root.dataset.lang === "zh" ? "zh" : "en"; }
   function setLang(l, remember) {
     root.dataset.lang = l; root.lang = l === "zh" ? "zh-CN" : "en";
-    document.title = l === "zh" ? "通信时延下的多 AGV 编队跟踪控制 · 毕云飞" : "Delay-Tolerant Formation Tracking for Multi-AGV Systems · Yunfei Bi";
+    document.title = l === "zh" ? "通信时延下的多 AGV 编队跟踪控制 · 毕云飞" : "Delay-Tolerant Formation Tracking via Reference-Shift Coupling · Yunfei Bi";
     if (remember) { try { localStorage.setItem(KEY, l); } catch (e) {} }
     listeners.forEach(function (f) { f(); });
   }
@@ -503,8 +503,8 @@ footer a { color: var(--ink-2); }
   document.getElementById("lang-btn").addEventListener("click", function () { setLang(L() === "zh" ? "en" : "zh", true); });
 
   var T = {
-    en: { uncoupled: "No coupling", cascade: "Cascade (proposed)", direct: "Direct coupling", sigleak: "CEP-structure transfer",
-          s_uncoupled: "No coupling", s_cascade: "Cascade", s_direct: "Direct", s_sigleak: "CEP transfer",
+    en: { uncoupled: "No coupling", cascade: "Cascade (proposed)", direct: "Direct coupling", sigleak: "σ-leak filter",
+          s_uncoupled: "No coupling", s_cascade: "Cascade", s_direct: "Direct", s_sigleak: "σ-leak",
           form: "formation error", track: "mean tracking error", stop: "STOP", slip: "SLIP 40 %",
           ev_stop: "AGV 2: safety stop", ev_slip: "AGV 2: traction loss", ev_slip_n: "traction loss",
           peaks: "Peak formation error within 15 s of the event: ", iae: "formation IAE", ts_y: "formation error (m)", ts_x: "time (s)",
@@ -520,8 +520,8 @@ footer a { color: var(--ink-2); }
             n12: "12 AGVs on a wide loop at 0.8 m/s, complete graph with degree-normalised weights (1/11 per neighbour); AGV 2 loses traction for 2 s at t = 30 s. With such small weights the coupling helps only a little here, but the formation stays stable."
           },
           run: "Run: experiment {exp}, {note}." },
-    zh: { uncoupled: "无耦合", cascade: "级联耦合（本文）", direct: "直接耦合", sigleak: "CEP 结构移植",
-          s_uncoupled: "无耦合", s_cascade: "级联", s_direct: "直接耦合", s_sigleak: "CEP 移植",
+    zh: { uncoupled: "无耦合", cascade: "级联耦合（本文）", direct: "直接耦合", sigleak: "σ-leak 滤波器",
+          s_uncoupled: "无耦合", s_cascade: "级联", s_direct: "直接耦合", s_sigleak: "σ-leak",
           form: "编队误差", track: "平均跟踪误差", stop: "急停", slip: "打滑 40 %",
           ev_stop: "2 号车：安全急停", ev_slip: "2 号车：打滑", ev_slip_n: "打滑",
           peaks: "扰动发生后 15 s 内的编队误差峰值：", iae: "编队误差积分", ts_y: "编队误差 (m)", ts_x: "时间 (s)",

diff --git a/zh/index.html b/zh/index.html
@@ -258,21 +258,21 @@ footer a { color: var(--ink-2); }
         </div>
       </div>
       <div>
-        <h3><a href="../agv-formation/">Delay-Tolerant Formation Tracking for Multi-AGV Systems</a></h3>
+        <h3><a href="../agv-formation/">Delay-Tolerant Formation Tracking for Multi-AGV Systems via Reference-Shift Coupling</a></h3>
         <p class="sub" data-l="zh">通信时延下的多 AGV 编队跟踪控制</p>
         <p class="authors"><b>Yunfei Bi</b></p>
         <p class="venue"><span data-l="en">Research internship, Siemens Technology Center Garching, 2025 · technical report, 2026</span><span data-l="zh">西门子 Garching 研究中心研究型实习 · 2025 年；技术报告 · 2026 年</span></p>
         <p class="desc" data-l="en">AGVs that carry a load together have to keep their formation when one of them slips or stops, while they talk over Wi-Fi with delays that differ per link, vary over time and jump. In the cascade design, delayed neighbour data only drive a filter that shifts each vehicle's own reference; the tracking law never sees the network, so stability holds for every bounded delay.</p>
         <ul class="pts" data-l="en">
-          <li><b>Theory:</b> tracking and formation errors converge for any bounded delay and any directed, switching graph; a strict Lyapunov function with explicit constants, delay-independent exponential and input-to-state estimates, and a formula for how much the coupling reduces the formation error. The proofs were audited and checked numerically.</li>
-          <li><b>High-fidelity simulation:</b> 4,894 paired runs with rigid-body vehicle dynamics, PI wheel loops with limits, slip, LiDAR&ndash;odometry localisation, clock offsets and Wi-Fi burst loss, against three tuned baselines; every run is deterministic and reproduces bit for bit.</li>
-          <li><b>Results:</b> the cascade never became unstable (latency up to 4&nbsp;s, 90&nbsp;% packet loss, 12 vehicles); it cut the formation error after a safety stop by 47&nbsp;% and after traction losses by 21&ndash;24&nbsp;%, at the price of tracking accuracy.</li>
+          <li><b>Theory:</b> tracking and formation errors converge for any bounded delay and any directed, switching graph; a strict Lyapunov function with explicit constants, exponential convergence and an input-to-state estimate with delay-independent gains, and a formula for how much the coupling reduces the formation error. The proofs were reviewed independently and checked numerically.</li>
+          <li><b>High-fidelity simulation:</b> 4,894 runs with rigid-body vehicle dynamics, PI wheel loops with limits, slip, LiDAR&ndash;odometry localisation, clock offsets and Wi-Fi burst loss, including paired comparisons against three tuned baselines; every run is deterministic and reproduces bit for bit.</li>
+          <li><b>Results:</b> the cascade never failed (latency up to 4&nbsp;s, 90&nbsp;% packet loss, 12 vehicles); it cut the formation error after a safety stop by 47&nbsp;% and after traction losses by 21&ndash;24&nbsp;%, at the price of tracking accuracy.</li>
         </ul>
         <p class="desc" data-l="zh">协同搬运的 AGV 需要在某辆车打滑或急停时仍保持队形，而车辆之间通过 Wi-Fi 通信，各链路时延不同、随时间变化甚至跳变。级联设计让带时延的邻居数据只驱动一个平移本车参考轨迹的滤波器，跟踪控制律完全不接触网络数据，因此对任意有界时延都能保证稳定。</p>
         <ul class="pts" data-l="zh">
-          <li><b>理论：</b>任意有界时延、任意有向可切换拓扑下，跟踪误差与编队误差均收敛；给出带显式常数的严格李雅普诺夫函数、与时延无关的指数收敛与输入-状态稳定估计，以及刻画耦合能将编队误差降低多少的公式；全部证明经过审计和数值核验。</li>
-          <li><b>高保真仿真：</b>包含刚体动力学、带限幅的 PI 轮速环、打滑、激光雷达-里程计融合定位、时钟偏差和 Wi-Fi 突发丢包，与三种调参后的对照控制器做了 4894 次配对仿真；每次仿真都是确定性的，可逐位复现。</li>
-          <li><b>结果：</b>级联控制器在所有仿真中都未失稳（时延最长 4&nbsp;s、丢包 90&nbsp;%、12 辆车）；急停后的编队误差降低 47&nbsp;%，打滑后降低 21&ndash;24&nbsp;%，代价是跟踪精度有所下降。</li>
+          <li><b>理论：</b>任意有界时延、任意有向可切换拓扑下，跟踪误差与编队误差均收敛；给出带显式常数的严格李雅普诺夫函数、指数收敛结论与增益和时延无关的输入-状态稳定估计，以及刻画耦合能将编队误差降低多少的公式；全部证明经过独立审查和数值核验。</li>
+          <li><b>高保真仿真：</b>包含刚体动力学、带限幅的 PI 轮速环、打滑、激光雷达-里程计融合定位、时钟偏差和 Wi-Fi 突发丢包，共 4894 次仿真，其中包括与三种调参后对照控制器的配对比较；每次仿真都是确定性的，可逐位复现。</li>
+          <li><b>结果：</b>级联控制器在所有仿真中都没有失败（时延最长 4&nbsp;s、丢包 90&nbsp;%、12 辆车）；急停后的编队误差降低 47&nbsp;%，打滑后降低 21&ndash;24&nbsp;%，代价是跟踪精度有所下降。</li>
         </ul>
         <div class="btns"><a href="../agv-formation/"><span data-l="en">Project page</span><span data-l="zh">项目主页</span></a></div>
       </div>
@@ -338,7 +338,7 @@ footer a { color: var(--ink-2); }
             <li>用 C++ 完成真机移植，搭建基于 MQTT 的分布式通信架构；以 Docker 容器化封装算法与运行环境，解决依赖问题并完成移动机器人平台部署。</li>
             <li>在含通信延迟与噪声的条件下，系统稳态追踪误差控制在约 0.02&nbsp;m 以内。</li>
           </ul>
-          <p class="note"><span data-l="en">Follow-up: audited stability proofs and a high-fidelity simulation study of the controller; see <a href="#research">Research</a> and the <a href="../agv-formation/">project page</a>.</span><span data-l="zh">后续工作：对该控制器的稳定性证明做了审计，并完成高保真仿真研究，详见上方<a href="#research">“研究成果”</a>与<a href="../agv-formation/">项目主页</a>。</span></p>
+          <p class="note"><span data-l="en">Follow-up: stability proofs and a high-fidelity simulation study of the controller (technical report); see <a href="#research">Research</a> and the <a href="../agv-formation/">project page</a>.</span><span data-l="zh">后续工作：完善了该控制器的稳定性证明，并完成高保真仿真研究（技术报告），详见上方<a href="#research">“研究成果”</a>与<a href="../agv-formation/">项目主页</a>。</span></p>
         </div>
       </div>
       <div class="item">

diff --git a/index.html b/index.html
@@ -258,21 +258,21 @@ footer a { color: var(--ink-2); }
         </div>
       </div>
       <div>
-        <h3><a href="agv-formation/">Delay-Tolerant Formation Tracking for Multi-AGV Systems</a></h3>
+        <h3><a href="agv-formation/">Delay-Tolerant Formation Tracking for Multi-AGV Systems via Reference-Shift Coupling</a></h3>
         <p class="sub" data-l="zh">通信时延下的多 AGV 编队跟踪控制</p>
         <p class="authors"><b>Yunfei Bi</b></p>
         <p class="venue"><span data-l="en">Research internship, Siemens Technology Center Garching, 2025 · technical report, 2026</span><span data-l="zh">西门子 Garching 研究中心研究型实习 · 2025 年；技术报告 · 2026 年</span></p>
         <p class="desc" data-l="en">AGVs that carry a load together have to keep their formation when one of them slips or stops, while they talk over Wi-Fi with delays that differ per link, vary over time and jump. In the cascade design, delayed neighbour data only drive a filter that shifts each vehicle's own reference; the tracking law never sees the network, so stability holds for every bounded delay.</p>
         <ul class="pts" data-l="en">
-          <li><b>Theory:</b> tracking and formation errors converge for any bounded delay and any directed, switching graph; a strict Lyapunov function with explicit constants, delay-independent exponential and input-to-state estimates, and a formula for how much the coupling reduces the formation error. The proofs were audited and checked numerically.</li>
-          <li><b>High-fidelity simulation:</b> 4,894 paired runs with rigid-body vehicle dynamics, PI wheel loops with limits, slip, LiDAR&ndash;odometry localisation, clock offsets and Wi-Fi burst loss, against three tuned baselines; every run is deterministic and reproduces bit for bit.</li>
-          <li><b>Results:</b> the cascade never became unstable (latency up to 4&nbsp;s, 90&nbsp;% packet loss, 12 vehicles); it cut the formation error after a safety stop by 47&nbsp;% and after traction losses by 21&ndash;24&nbsp;%, at the price of tracking accuracy.</li>
+          <li><b>Theory:</b> tracking and formation errors converge for any bounded delay and any directed, switching graph; a strict Lyapunov function with explicit constants, exponential convergence and an input-to-state estimate with delay-independent gains, and a formula for how much the coupling reduces the formation error. The proofs were reviewed independently and checked numerically.</li>
+          <li><b>High-fidelity simulation:</b> 4,894 runs with rigid-body vehicle dynamics, PI wheel loops with limits, slip, LiDAR&ndash;odometry localisation, clock offsets and Wi-Fi burst loss, including paired comparisons against three tuned baselines; every run is deterministic and reproduces bit for bit.</li>
+          <li><b>Results:</b> the cascade never failed (latency up to 4&nbsp;s, 90&nbsp;% packet loss, 12 vehicles); it cut the formation error after a safety stop by 47&nbsp;% and after traction losses by 21&ndash;24&nbsp;%, at the price of tracking accuracy.</li>
         </ul>
         <p class="desc" data-l="zh">协同搬运的 AGV 需要在某辆车打滑或急停时仍保持队形，而车辆之间通过 Wi-Fi 通信，各链路时延不同、随时间变化甚至跳变。级联设计让带时延的邻居数据只驱动一个平移本车参考轨迹的滤波器，跟踪控制律完全不接触网络数据，因此对任意有界时延都能保证稳定。</p>
         <ul class="pts" data-l="zh">
-          <li><b>理论：</b>任意有界时延、任意有向可切换拓扑下，跟踪误差与编队误差均收敛；给出带显式常数的严格李雅普诺夫函数、与时延无关的指数收敛与输入-状态稳定估计，以及刻画耦合能将编队误差降低多少的公式；全部证明经过审计和数值核验。</li>
-          <li><b>高保真仿真：</b>包含刚体动力学、带限幅的 PI 轮速环、打滑、激光雷达-里程计融合定位、时钟偏差和 Wi-Fi 突发丢包，与三种调参后的对照控制器做了 4894 次配对仿真；每次仿真都是确定性的，可逐位复现。</li>
-          <li><b>结果：</b>级联控制器在所有仿真中都未失稳（时延最长 4&nbsp;s、丢包 90&nbsp;%、12 辆车）；急停后的编队误差降低 47&nbsp;%，打滑后降低 21&ndash;24&nbsp;%，代价是跟踪精度有所下降。</li>
+          <li><b>理论：</b>任意有界时延、任意有向可切换拓扑下，跟踪误差与编队误差均收敛；给出带显式常数的严格李雅普诺夫函数、指数收敛结论与增益和时延无关的输入-状态稳定估计，以及刻画耦合能将编队误差降低多少的公式；全部证明经过独立审查和数值核验。</li>
+          <li><b>高保真仿真：</b>包含刚体动力学、带限幅的 PI 轮速环、打滑、激光雷达-里程计融合定位、时钟偏差和 Wi-Fi 突发丢包，共 4894 次仿真，其中包括与三种调参后对照控制器的配对比较；每次仿真都是确定性的，可逐位复现。</li>
+          <li><b>结果：</b>级联控制器在所有仿真中都没有失败（时延最长 4&nbsp;s、丢包 90&nbsp;%、12 辆车）；急停后的编队误差降低 47&nbsp;%，打滑后降低 21&ndash;24&nbsp;%，代价是跟踪精度有所下降。</li>
         </ul>
         <div class="btns"><a href="agv-formation/"><span data-l="en">Project page</span><span data-l="zh">项目主页</span></a></div>
       </div>
@@ -338,7 +338,7 @@ footer a { color: var(--ink-2); }
             <li>用 C++ 完成真机移植，搭建基于 MQTT 的分布式通信架构；以 Docker 容器化封装算法与运行环境，解决依赖问题并完成移动机器人平台部署。</li>
             <li>在含通信延迟与噪声的条件下，系统稳态追踪误差控制在约 0.02&nbsp;m 以内。</li>
           </ul>
-          <p class="note"><span data-l="en">Follow-up: audited stability proofs and a high-fidelity simulation study of the controller; see <a href="#research">Research</a> and the <a href="agv-formation/">project page</a>.</span><span data-l="zh">后续工作：对该控制器的稳定性证明做了审计，并完成高保真仿真研究，详见上方<a href="#research">“研究成果”</a>与<a href="agv-formation/">项目主页</a>。</span></p>
+          <p class="note"><span data-l="en">Follow-up: stability proofs and a high-fidelity simulation study of the controller (technical report); see <a href="#research">Research</a> and the <a href="agv-formation/">project page</a>.</span><span data-l="zh">后续工作：完善了该控制器的稳定性证明，并完成高保真仿真研究（技术报告），详见上方<a href="#research">“研究成果”</a>与<a href="agv-formation/">项目主页</a>。</span></p>
         </div>
       </div>
       <div class="item">
